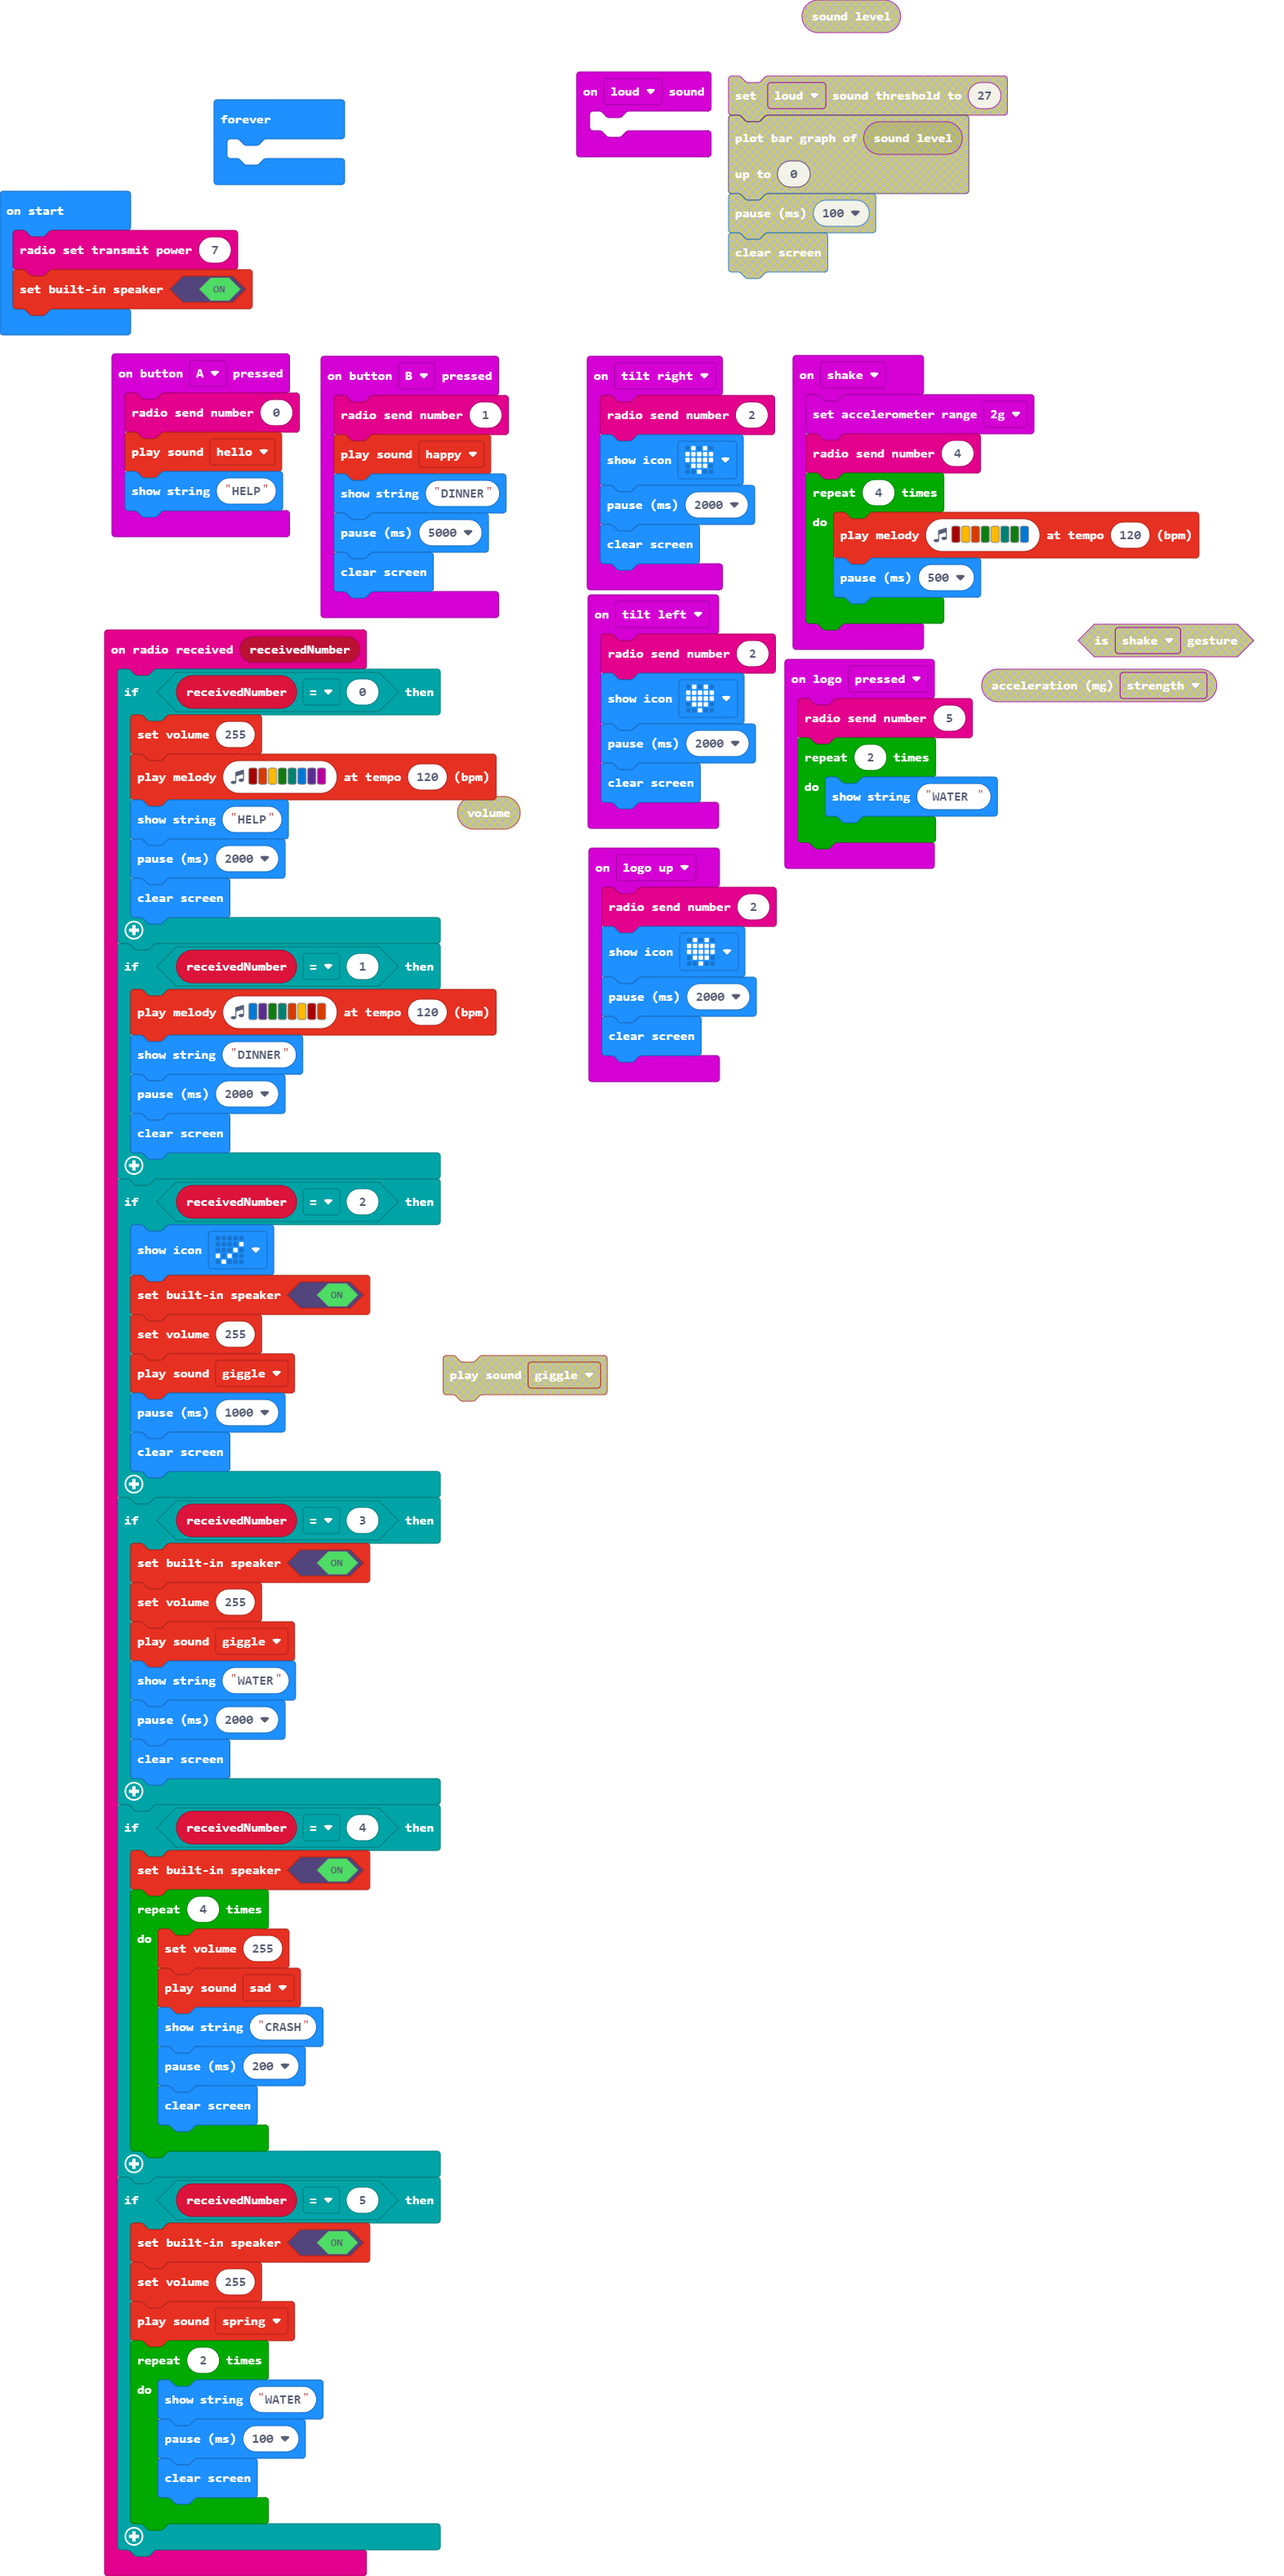
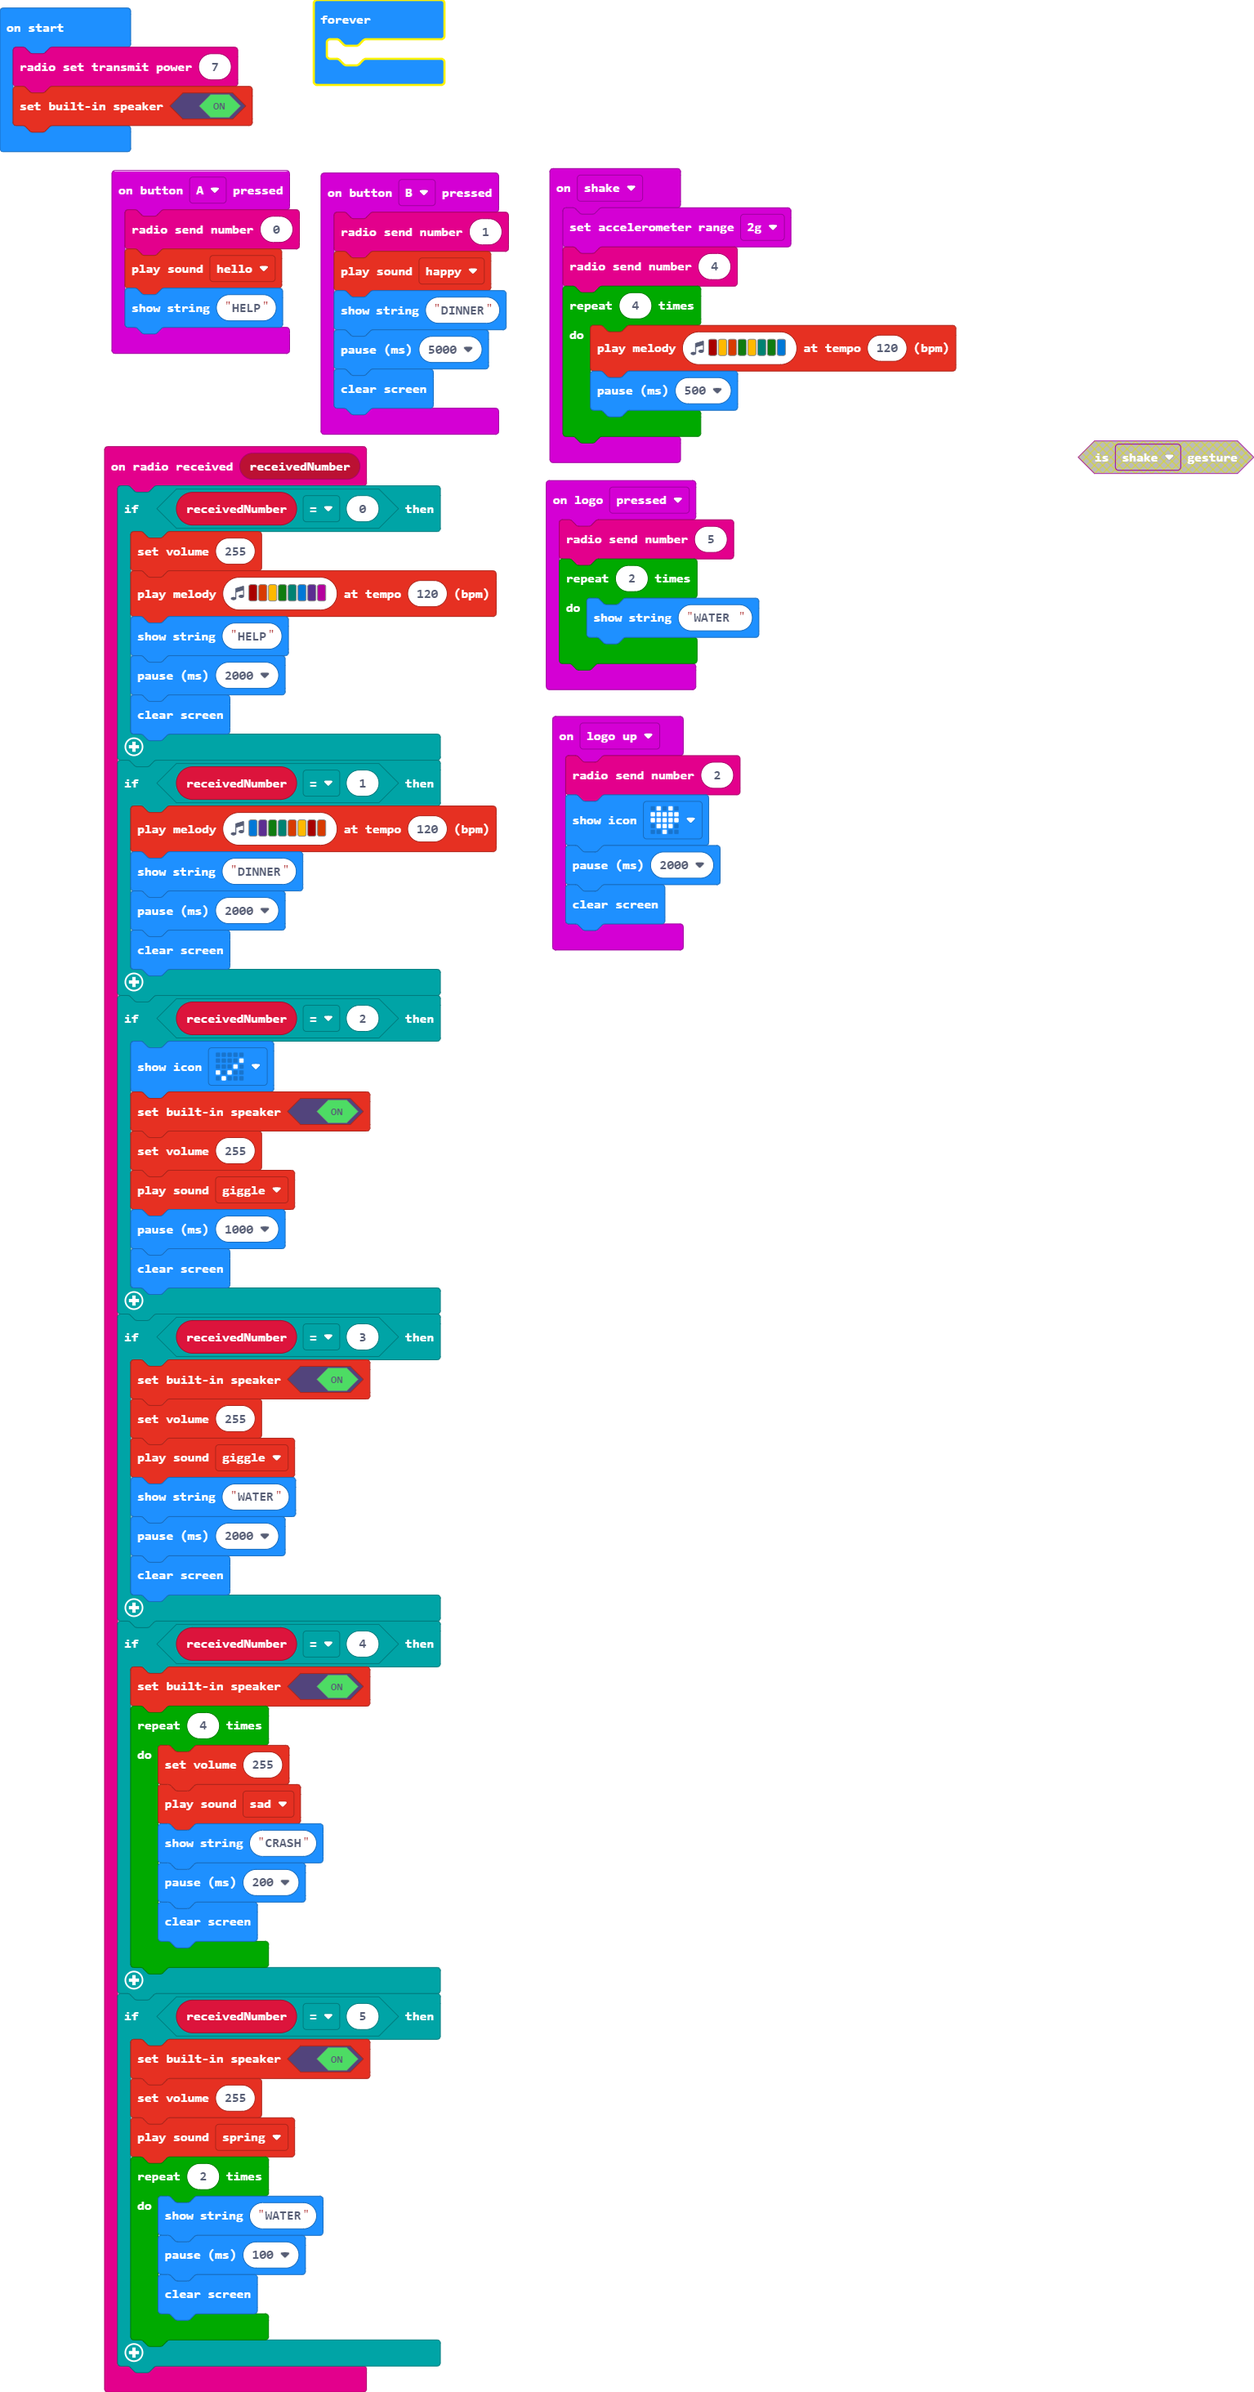
Update main.blocks, main.ts

Changed region(s): [[0.0, 0.0, 1.0, 1.0]]

diff --git a/main.ts b/main.ts
@@ -60,15 +60,6 @@ input.onGesture(Gesture.LogoUp, function () {
     basic.pause(2000)
     basic.clearScreen()
 })
-input.onGesture(Gesture.TiltLeft, function () {
-    radio.sendNumber(2)
-    basic.showIcon(IconNames.Heart)
-    basic.pause(2000)
-    basic.clearScreen()
-})
-input.onSound(DetectedSound.Loud, function () {
-	
-})
 input.onButtonPressed(Button.B, function () {
     radio.sendNumber(1)
     soundExpression.happy.play()
@@ -83,12 +74,6 @@ input.onGesture(Gesture.Shake, function () {
         music.playMelody("C5 A B G A F G E ", 120)
         basic.pause(500)
     }
-})
-input.onGesture(Gesture.TiltRight, function () {
-    radio.sendNumber(2)
-    basic.showIcon(IconNames.Heart)
-    basic.pause(2000)
-    basic.clearScreen()
 })
 input.onLogoEvent(TouchButtonEvent.Pressed, function () {
     radio.sendNumber(5)
